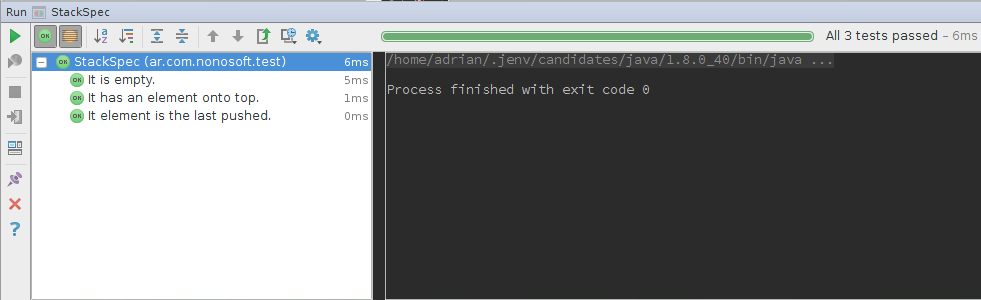
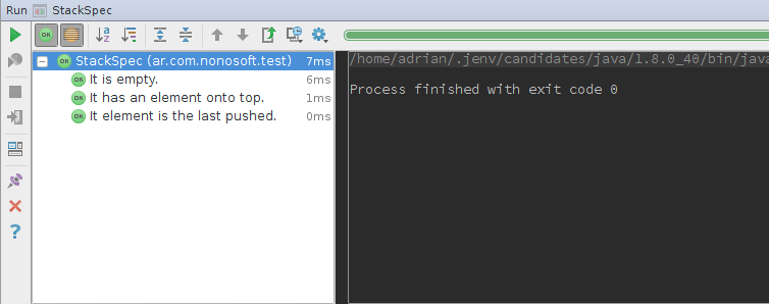
readme: run from eclipse

Changed region(s): [[0.0, 0.0, 1.0, 1.0]]

diff --git a/jspec-test/src/test/java/ar/com/nonosoft/test/SprincContext.java b/jspec-test/src/test/java/ar/com/nonosoft/test/SprincContext.java
@@ -1,0 +1,7 @@
+package ar.com.nonosoft.test;
+
+/**
+ * Created by adrian on 4/2/16.
+ */
+public class SprincContext {
+}

diff --git a/README.md b/README.md
@@ -106,9 +106,15 @@ Also could run specs in a particular package.
 gradle -q jspec -Ppkg=ar.com.nonosoft.test
 ```
 
-**Step 4:** Run from JIdea.
+**Step 4:** Run from:
+
+JIdea
 
 ![rspec output](https://raw.githubusercontent.com/adrianmarino/jspec/master/jspec-test/idea.png)
+
+Eclipse
+
+![rspec output](https://raw.githubusercontent.com/adrianmarino/jspec/master/jspec-test/eclipse.png)
 
 
 ## Speficication Guide
